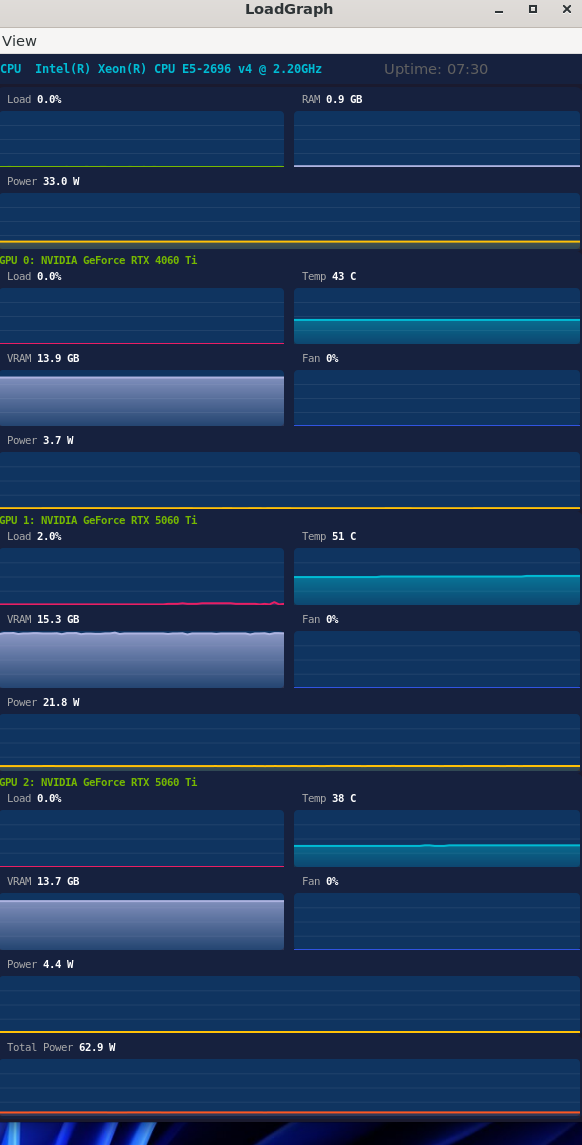
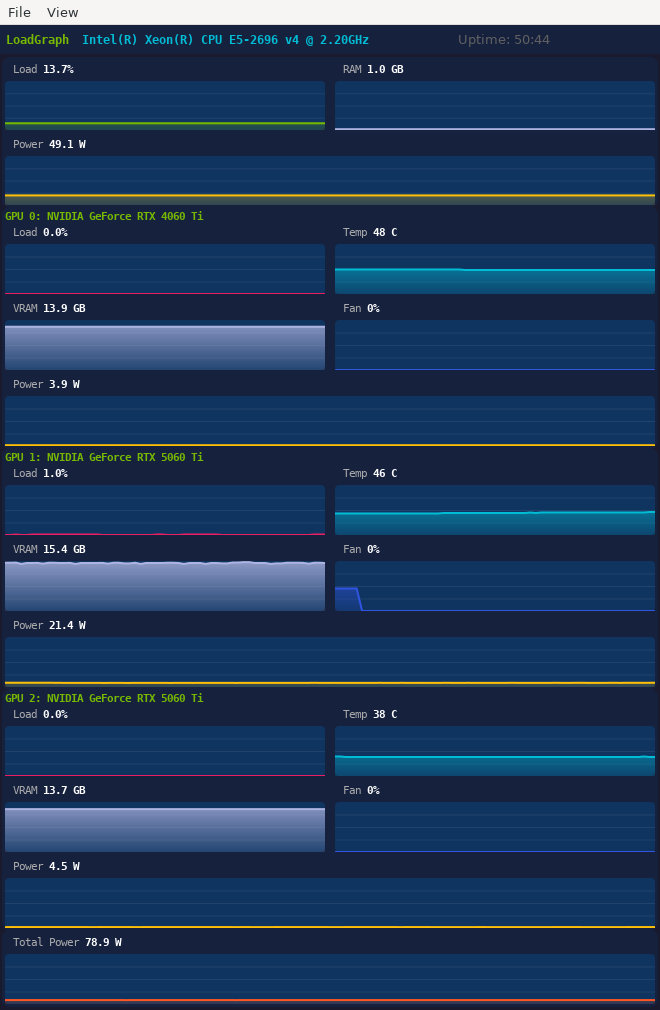
GUI: header mirrors web dashboard (green LoadGraph + cyan CPU name); README: document AMD support; reshoot platform screenshots

diff --git a/src/main_frame.cpp b/src/main_frame.cpp
@@ -231,23 +231,30 @@ void MainFrame::RealizeUI()
 	m_header = new wxPanel(this, wxID_ANY);
 	wxBoxSizer* hdrS = new wxBoxSizer(wxHORIZONTAL);
 
-	// CPU model label (the redundant "LoadGraph" title was removed; the label
-	// stretches and ellipsizes so the uptime never gets pushed out).
-	wxString cpuLabel = "CPU";
+	// Header matches the web dashboard h1: "LoadGraph" in green (#76B900)
+	// followed by the CPU model name in cyan (cpu_name config color). The
+	// CPU label stretches and ellipsizes so the uptime never gets pushed out.
+	wxString cpuLabel;
 	CpuData cpuInit{};
 	MetricsGetCpu(cpuInit);
 #ifdef PLATFORM_WINDOWS
 	const std::wstring& cpuNameW = cpuInit.cpuName;
-	if (!cpuNameW.empty()) cpuLabel += "  " + wxString(cpuNameW.c_str());
-	else                   cpuLabel += "  (N/A)";
+	if (!cpuNameW.empty()) cpuLabel = wxString(cpuNameW.c_str());
+	else                   cpuLabel = "(N/A)";
 #else
 	const std::string& cpuNameS = cpuInit.cpuName;
-	if (!cpuNameS.empty()) cpuLabel += "  " + wxString::FromUTF8(cpuNameS.c_str());
-	else                   cpuLabel += "  (N/A)";
+	if (!cpuNameS.empty()) cpuLabel = wxString::FromUTF8(cpuNameS.c_str());
+	else                   cpuLabel = "(N/A)";
 #endif
-	wxStaticText* cpuT = new wxStaticText(m_header, wxID_ANY, cpuLabel);
 	// Consolas to match the dashboard font (Consolas, monospace).
 	const wxFont cpuFont(wxFontInfo(wxSize(0, 15)).FaceName("Consolas").Bold());
+	wxStaticText* titleT = new wxStaticText(m_header, wxID_ANY, "LoadGraph");
+	titleT->SetFont(cpuFont);
+	// Same fixed green as the web h1 (--c-cpu-title default).
+	m_customColoredLabels.push_back({ titleT, HexColor("76B900") });
+	hdrS->Add(titleT, 0, wxALL | wxALIGN_CENTER_VERTICAL, 6);
+
+	wxStaticText* cpuT = new wxStaticText(m_header, wxID_ANY, cpuLabel);
 	cpuT->SetFont(cpuFont);
 	// Reserve space for the uptime label so it is never clipped at minimum
 	// width. The CPU label ellipsizes instead of pushing uptime off-screen.

diff --git a/README.md b/README.md
@@ -27,11 +27,11 @@ LoadGraph solves this: **all metrics for all GPUs are visible at once in a singl
 
 - **CPU Load (%)** — overall processor utilization (`/proc/stat` delta-method on Linux, PDH `\\Processor(_Total)\\% Processor Time` on Windows)
 - **RAM Usage (GB)** — used memory with adaptive Y-axis
-- **GPU Load (%)** — per-GPU utilization (one section per detected NVIDIA card; each section contains Load, VRAM, Temperature, Fan and Power graphs)
+- **GPU Load (%)** — per-GPU utilization (one section per detected GPU; each section contains Load, VRAM, Temperature, Fan and Power graphs)
 - **VRAM (GB)** — video memory used on each card
 - **Temperature (°C)** — GPU temperature; CPU temperature on Windows via MSR (IA32_THERM_STATUS 0x19C, per-family Tjmax: 84 for Haswell-E/EP, 85 for Broadwell-EP, 100 for Skylake and newer); red alarm line above 80°C
 - **Fan (% / RPM)** — GPU fan in percent (or RPM fallback), CPU fan in RPM (when sensor is available)
-- **GPU Power (W)** — per-card power draw from NVML `nvmlDeviceGetPowerUsage`
+- **GPU Power (W)** — per-card power draw (NVIDIA: NVML `nvmlDeviceGetPowerUsage`; AMD: ADL2 Overdrive6 on Windows, hwmon `power1_average` on Linux)
 - **CPU Power (W)** — real RAPL counter on Linux, or LHM/OpenHardwareMonitor WMI sensor on Windows, or idle-floor estimate as last fallback
 - **Total Power (W)** — CPU + all GPUs summed; fixed 0..1000 W scale with 5 ticks
 - **Uptime** — system boot time displayed as `YY:MM:DD HH:MI:SS` or `<N> s` for fresh boots
@@ -44,7 +44,7 @@ LoadGraph solves this: **all metrics for all GPUs are visible at once in a singl
 
 ### Linux / WSL2
 
-Works on native Linux and inside WSL2 thanks to the GPU-PV bridge (NVML exposed at `/usr/lib/wsl/lib/libnvidia-ml.so.1`). NVAPI is Windows-only; Linux uses NVML exclusively.
+Works on native Linux and inside WSL2 thanks to the GPU-PV bridge (NVML exposed at `/usr/lib/wsl/lib/libnvidia-ml.so.1`). NVAPI is Windows-only; Linux uses NVML exclusively. AMD cards on Linux are read directly from the `amdgpu` driver — sysfs (`gpu_busy_percent`, `mem_info_vram_*`) and hwmon (`temp1_input`, `power1_average`, `fan1_input`, `freq1_input`) — without any external tools or ROCm libraries.
 
 ![Linux](img/lglin.png)
 
@@ -95,7 +95,7 @@ Features:
 
 - Visual Studio 2022 (MSVC) — required on Windows (SEH extensions and MSVC-style compiler flags are used; MinGW is not supported)
 - wxWidgets 3.2 static build (`C:/wxWidgets`). Override with: `-DWX_CONFIG_PATH=...`
-- NVIDIA driver (for GPU metrics; CPU/RAM work without a GPU)
+- NVIDIA driver (for NVIDIA GPU metrics; CPU/RAM work without a GPU). AMD GPU metrics work with any Adrenalin driver (`atiadlxx.dll` is loaded dynamically, no extra setup)
 - **CPU temperature** requires one of:
   - A WinRing0-compatible kernel driver (`.sys`) placed next to the executable — see [Driver](#driver) below
   - Or direct `rdmsr` access (works on some systems where HVCI / Memory Integrity is off and the CPU does not block user-mode MSR reads)
@@ -106,6 +106,7 @@ Features:
 - wxWidgets 3.2: `sudo apt install libwxgtk3.2-dev` (or set `$WX_CONFIG`)
 - NVIDIA driver + `libnvidia-ml` for GPU metrics (`nvidia-smi` must work)
 - WSL2: GPU-PV bridge exposes NVML automatically, no extra setup needed
+- AMD GPU: `amdgpu` driver must expose the card in `/sys/class/drm` (native Linux with the card visible; plain WSL2 does not expose AMD cards unless GPU partitioning/passthrough is configured)
 
 ## Driver
 
@@ -210,6 +211,7 @@ src/
   ram_monitor_linux.cpp     # Linux — /proc/meminfo
   gpu_monitor.{h,cpp}       # Windows — NVML primary + NVAPI fallback (GetDynamicPstates)
   gpu_monitor_linux.cpp     # Linux — dlopen libnvidia-ml.so.1 (real symbol names)
+  amd_monitor.{h,cpp}       # AMD GPU — ADL2 (dynamic atiadlxx.dll) + DXGI VRAM on Windows, amdgpu sysfs/hwmon on Linux
   ring0_msr.{h,cpp}         # WinRing0 DLL / kernel driver back-end, UAC elevation helpers
   msr_sensor.{h,cpp}        # MSR temperature reader: Tjmax decode, EnsureDriver prompt
   power_table.{h,cpp}       # Static TDP table for Intel/AMD CPUs and NVIDIA GPUs (substring match)
@@ -232,7 +234,9 @@ src/
 
 ## Known limitations
 
-- **AMD / Intel GPU** — not supported (NVML is NVIDIA-only).
+- **AMD GPU (Windows)** — metrics come from ADL2 (`atiadlxx.dll`, loaded dynamically). Load, temperature, fan and power depend on the driver exposing Overdrive6/Overdrive5 sensors; older UWP drivers may omit some of them (shown as N/A). ADL has no power-limit API in watts, so the power limit shows N/A on Windows.
+- **AMD GPU (Linux/WSL2)** — read from `amdgpu` sysfs/hwmon (`gpu_busy_percent`, `mem_info_vram_*`, `temp1_input`, `power1_average`, `fan1_input`, `freq1_input`). Requires the card to be visible to Linux: WSL2 needs GPU partitioning/passthrough, plain WSL2 exposes only the NVIDIA vGPU bridge.
+- **Intel GPU** — not supported.
 - **macOS** — not a target platform.
 - **CPU temperature on Linux** — reads `/sys/class/thermal/thermal_zone0/temp`; many desktop boards expose no thermal zone, so N/A is common.
 - **HVCI / Memory Integrity** — if enabled in Windows Security, user-mode `rdmsr` is blocked and a kernel driver is required.
